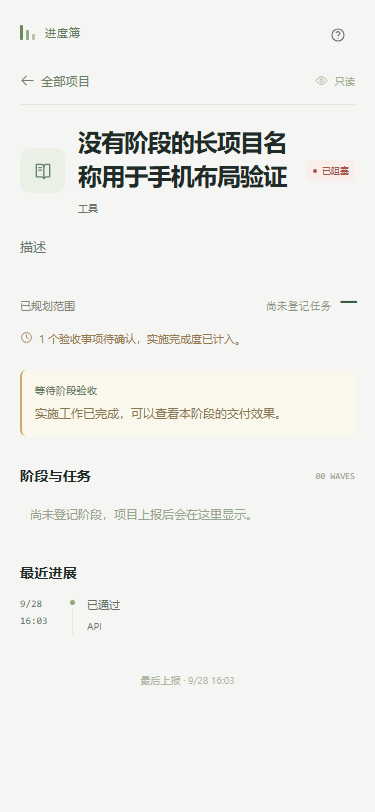
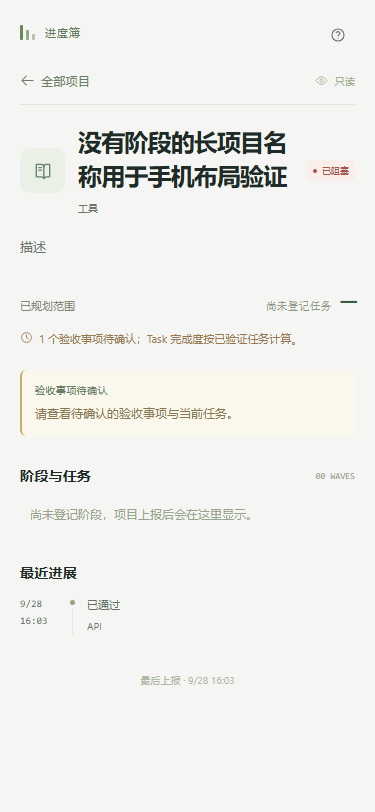
修正进度边界、验收文案与读取日期格式

Changed region(s): [[0.088, 0.4618, 0.7333, 0.5234], [0.3813, 0.4002, 0.792, 0.431]]

diff --git a/demo/mobile.html b/demo/mobile.html
@@ -474,7 +474,7 @@ body[data-connection=&quot;offline&quot;] .snapshot-dot, body[data-connection=&q
     return {
       done: completed.length,
       total: tasks.length,
-      percent: tasks.length ? Math.round(completed.length / tasks.length * 100) : null,
+      percent: tasks.length ? Math.floor((2 * completed.length * 100 + tasks.length) / (2 * tasks.length)) : null,
       unplannedWaves: waves.filter(wave => wave.defined === false).length,
       pendingAcceptance: (project.acceptance === 'pending' ? 1 : 0)
         + waves.filter(wave => wave.acceptance === 'pending').length
@@ -730,7 +730,7 @@ body[data-connection=&quot;offline&quot;] .snapshot-dot, body[data-connection=&q
     const current = project.currentWave === wave.id;
     const complete = summary.total > 0 &amp;&amp; summary.done === summary.total;
     const expanded = state.openWaves.get(project.id)?.has(wave.id);
-    const caption = wave.acceptance === 'pending' ? '实施完成 · 待验收' : current ? '当前阶段' : wave.defined === false ? '后续计划' : complete ? '已完成' : '尚未开始';
+    const caption = wave.acceptance === 'pending' ? complete ? '实施完成 · 待验收' : '验收待确认' : current ? '当前阶段' : wave.defined === false ? '后续计划' : complete ? '已完成' : '尚未开始';
     return `<details class=&quot;wave ${current ? 'current' : ''}&quot; data-wave=&quot;${esc(wave.id)}&quot; data-owner=&quot;${esc(project.id)}&quot; ${expanded ? 'open' : ''}>
       <summary aria-label=&quot;Wave ${index + 1} ${esc(wave.name)} ${summary.total ? `${summary.done}/${summary.total}` : '待细化'}&quot;><span class=&quot;wave-number ${current ? 'current' : complete ? 'complete' : ''} ${wave.defined === false ? 'undefined' : ''}&quot;>${complete &amp;&amp; !current ? icon('check') : String(index + 1).padStart(2, '0')}</span><span class=&quot;wave-title&quot;><strong>${esc(wave.name)}</strong><small>${caption}</small></span><span class=&quot;wave-count ${summary.total ? '' : 'text'}&quot;>${summary.total ? `${summary.done} / ${summary.total}` : '待细化'}</span><span class=&quot;wave-chevron&quot;>${icon('chevronRight')}</span></summary>
       <div class=&quot;wave-body&quot;>${wave.tasks.length ? wave.tasks.map(task => `<a class=&quot;task-row&quot; data-task=&quot;${esc(task.id)}&quot; data-status=&quot;${esc(task.status)}&quot; href=&quot;${taskLink(project, task)}&quot; aria-label=&quot;查看任务：${esc(task.title)}，${esc(statusLabels[task.status] || task.status)}&quot;>${symbol(task.status)}<span class=&quot;task-name&quot;>${esc(task.title)}${task.status === 'active' ? '<small class=&quot;task-hint&quot;>正在推进</small>' : task.status === 'waiting' ? '<small class=&quot;task-hint&quot;>等待确认</small>' : ''}</span><span class=&quot;task-code&quot;>${esc(task.code)}</span>${icon('chevronRight', 'task-chevron')}</a>`).join('') : '<div class=&quot;wave-empty&quot;>这个阶段还没有拆分 Task，暂不计入已规划范围。</div>'}</div>
@@ -740,15 +740,16 @@ body[data-connection=&quot;offline&quot;] .snapshot-dot, body[data-connection=&q
   function projectMarkup(project) {
     const summary = summarize(project);
     const ongoing = project.waves.flatMap(w => w.tasks).find(t => ['active', 'waiting', 'blocked'].includes(t.status));
+    const completeScope = summary.total > 0 &amp;&amp; summary.done === summary.total &amp;&amp; summary.unplannedWaves === 0;
     const focus = ongoing ? `<a class=&quot;focus-note ${esc(project.status)}&quot; href=&quot;${taskLink(project, ongoing)}&quot;><span class=&quot;focus-label&quot;>${project.status === 'blocked' ? '需要你确认' : '当前在做'}${icon('arrowUpRight')}</span><strong>${esc(project.blocker || ongoing.title)}</strong></a>`
       : project.status === 'blocked' &amp;&amp; project.blocker ? `<div class=&quot;focus-note blocked&quot;><span class=&quot;focus-label&quot;>当前阻塞</span><strong>${esc(project.blocker)}</strong></div>`
-      : summary.pendingAcceptance ? '<div class=&quot;focus-note review&quot;><span class=&quot;focus-label&quot;>等待阶段验收</span><strong>实施工作已完成，可以查看本阶段的交付效果。</strong></div>' : '';
+      : summary.pendingAcceptance ? `<div class=&quot;focus-note review&quot;><span class=&quot;focus-label&quot;>验收事项待确认</span><strong>${completeScope ? '实施工作已完成，可以查看本阶段的交付效果。' : '请查看待确认的验收事项与当前任务。'}</strong></div>` : '';
     return `<div class=&quot;detail-nav&quot;><span class=&quot;desktop-detail-label&quot;>项目详情</span><a class=&quot;back-link mobile-back&quot; href=&quot;#&quot;>${icon('arrowLeft')}全部项目</a><span class=&quot;detail-nav-end&quot;>${icon('eye')}只读</span></div>
       <div class=&quot;detail-content&quot;><div class=&quot;detail-project-heading&quot;><span class=&quot;project-icon ${esc(project.color)}&quot;>${icon(project.glyph)}</span><div class=&quot;detail-title-wrap&quot;><h2 tabindex=&quot;-1&quot;>${esc(project.name)}</h2><span class=&quot;category-label&quot;>${esc(project.category)}</span></div>${statusTag(project.status)}</div>
       <p class=&quot;detail-description&quot;>${esc(project.description)}</p>
       <div class=&quot;metric-top&quot;><span>已规划范围</span><div class=&quot;metric-ratio&quot;><span>${summary.total ? `${summary.done} / ${summary.total} Task` : '尚未登记任务'}</span><strong>${summary.percent === null ? '—' : `${summary.percent}<small>%</small>`}</strong></div></div>
       ${progress(summary, project.name, 'detail-progress', project.status)}
-      <div class=&quot;scope-note ${summary.pendingAcceptance ? 'pending' : ''}&quot;>${icon(summary.pendingAcceptance ? 'clock' : 'layers')}<span>${summary.pendingAcceptance ? `${summary.pendingAcceptance} 个验收事项待确认，实施完成度已计入。` : summary.unplannedWaves ? `另有 ${summary.unplannedWaves} 个 Wave 待细化，以上仅统计已规划 Task。` : project.status === 'complete' ? '全部任务已完成，交付检查已通过。' : '按 Task 等权计量，子项不增加任务总数。'}</span></div>
+      <div class=&quot;scope-note ${summary.pendingAcceptance ? 'pending' : ''}&quot;>${icon(summary.pendingAcceptance ? 'clock' : 'layers')}<span>${summary.pendingAcceptance ? `${summary.pendingAcceptance} 个验收事项待确认；Task 完成度按已验证任务计算。${summary.unplannedWaves ? `另有 ${summary.unplannedWaves} 个 Wave 待细化。` : ''}` : summary.unplannedWaves ? `另有 ${summary.unplannedWaves} 个 Wave 待细化，以上仅统计已规划 Task。` : project.status === 'complete' ? '全部任务已完成，交付检查已通过。' : '按 Task 等权计量，子项不增加任务总数。'}</span></div>
       ${focus}
       <div class=&quot;section-heading&quot;><h3>阶段与任务</h3><span>${String(project.waves.length).padStart(2, '0')} WAVES</span></div>
       <div class=&quot;wave-list&quot;>${project.waves.length ? project.waves.map((wave, index) => waveMarkup(project, wave, index)).join('') : '<div class=&quot;wave-empty&quot;>尚未登记阶段，项目上报后会在这里显示。</div>'}</div>

diff --git a/demo/index.html b/demo/index.html
@@ -472,7 +472,7 @@ body[data-connection="offline"] .snapshot-dot, body[data-connection="offline"] .
     return {
       done: completed.length,
       total: tasks.length,
-      percent: tasks.length ? Math.round(completed.length / tasks.length * 100) : null,
+      percent: tasks.length ? Math.floor((2 * completed.length * 100 + tasks.length) / (2 * tasks.length)) : null,
       unplannedWaves: waves.filter(wave => wave.defined === false).length,
       pendingAcceptance: (project.acceptance === 'pending' ? 1 : 0)
         + waves.filter(wave => wave.acceptance === 'pending').length
@@ -728,7 +728,7 @@ body[data-connection="offline"] .snapshot-dot, body[data-connection="offline"] .
     const current = project.currentWave === wave.id;
     const complete = summary.total > 0 && summary.done === summary.total;
     const expanded = state.openWaves.get(project.id)?.has(wave.id);
-    const caption = wave.acceptance === 'pending' ? '实施完成 · 待验收' : current ? '当前阶段' : wave.defined === false ? '后续计划' : complete ? '已完成' : '尚未开始';
+    const caption = wave.acceptance === 'pending' ? complete ? '实施完成 · 待验收' : '验收待确认' : current ? '当前阶段' : wave.defined === false ? '后续计划' : complete ? '已完成' : '尚未开始';
     return `<details class="wave ${current ? 'current' : ''}" data-wave="${esc(wave.id)}" data-owner="${esc(project.id)}" ${expanded ? 'open' : ''}>
       <summary aria-label="Wave ${index + 1} ${esc(wave.name)} ${summary.total ? `${summary.done}/${summary.total}` : '待细化'}"><span class="wave-number ${current ? 'current' : complete ? 'complete' : ''} ${wave.defined === false ? 'undefined' : ''}">${complete && !current ? icon('check') : String(index + 1).padStart(2, '0')}</span><span class="wave-title"><strong>${esc(wave.name)}</strong><small>${caption}</small></span><span class="wave-count ${summary.total ? '' : 'text'}">${summary.total ? `${summary.done} / ${summary.total}` : '待细化'}</span><span class="wave-chevron">${icon('chevronRight')}</span></summary>
       <div class="wave-body">${wave.tasks.length ? wave.tasks.map(task => `<a class="task-row" data-task="${esc(task.id)}" data-status="${esc(task.status)}" href="${taskLink(project, task)}" aria-label="查看任务：${esc(task.title)}，${esc(statusLabels[task.status] || task.status)}">${symbol(task.status)}<span class="task-name">${esc(task.title)}${task.status === 'active' ? '<small class="task-hint">正在推进</small>' : task.status === 'waiting' ? '<small class="task-hint">等待确认</small>' : ''}</span><span class="task-code">${esc(task.code)}</span>${icon('chevronRight', 'task-chevron')}</a>`).join('') : '<div class="wave-empty">这个阶段还没有拆分 Task，暂不计入已规划范围。</div>'}</div>
@@ -738,15 +738,16 @@ body[data-connection="offline"] .snapshot-dot, body[data-connection="offline"] .
   function projectMarkup(project) {
     const summary = summarize(project);
     const ongoing = project.waves.flatMap(w => w.tasks).find(t => ['active', 'waiting', 'blocked'].includes(t.status));
+    const completeScope = summary.total > 0 && summary.done === summary.total && summary.unplannedWaves === 0;
     const focus = ongoing ? `<a class="focus-note ${esc(project.status)}" href="${taskLink(project, ongoing)}"><span class="focus-label">${project.status === 'blocked' ? '需要你确认' : '当前在做'}${icon('arrowUpRight')}</span><strong>${esc(project.blocker || ongoing.title)}</strong></a>`
       : project.status === 'blocked' && project.blocker ? `<div class="focus-note blocked"><span class="focus-label">当前阻塞</span><strong>${esc(project.blocker)}</strong></div>`
-      : summary.pendingAcceptance ? '<div class="focus-note review"><span class="focus-label">等待阶段验收</span><strong>实施工作已完成，可以查看本阶段的交付效果。</strong></div>' : '';
+      : summary.pendingAcceptance ? `<div class="focus-note review"><span class="focus-label">验收事项待确认</span><strong>${completeScope ? '实施工作已完成，可以查看本阶段的交付效果。' : '请查看待确认的验收事项与当前任务。'}</strong></div>` : '';
     return `<div class="detail-nav"><span class="desktop-detail-label">项目详情</span><a class="back-link mobile-back" href="#">${icon('arrowLeft')}全部项目</a><span class="detail-nav-end">${icon('eye')}只读</span></div>
       <div class="detail-content"><div class="detail-project-heading"><span class="project-icon ${esc(project.color)}">${icon(project.glyph)}</span><div class="detail-title-wrap"><h2 tabindex="-1">${esc(project.name)}</h2><span class="category-label">${esc(project.category)}</span></div>${statusTag(project.status)}</div>
       <p class="detail-description">${esc(project.description)}</p>
       <div class="metric-top"><span>已规划范围</span><div class="metric-ratio"><span>${summary.total ? `${summary.done} / ${summary.total} Task` : '尚未登记任务'}</span><strong>${summary.percent === null ? '—' : `${summary.percent}<small>%</small>`}</strong></div></div>
       ${progress(summary, project.name, 'detail-progress', project.status)}
-      <div class="scope-note ${summary.pendingAcceptance ? 'pending' : ''}">${icon(summary.pendingAcceptance ? 'clock' : 'layers')}<span>${summary.pendingAcceptance ? `${summary.pendingAcceptance} 个验收事项待确认，实施完成度已计入。` : summary.unplannedWaves ? `另有 ${summary.unplannedWaves} 个 Wave 待细化，以上仅统计已规划 Task。` : project.status === 'complete' ? '全部任务已完成，交付检查已通过。' : '按 Task 等权计量，子项不增加任务总数。'}</span></div>
+      <div class="scope-note ${summary.pendingAcceptance ? 'pending' : ''}">${icon(summary.pendingAcceptance ? 'clock' : 'layers')}<span>${summary.pendingAcceptance ? `${summary.pendingAcceptance} 个验收事项待确认；Task 完成度按已验证任务计算。${summary.unplannedWaves ? `另有 ${summary.unplannedWaves} 个 Wave 待细化。` : ''}` : summary.unplannedWaves ? `另有 ${summary.unplannedWaves} 个 Wave 待细化，以上仅统计已规划 Task。` : project.status === 'complete' ? '全部任务已完成，交付检查已通过。' : '按 Task 等权计量，子项不增加任务总数。'}</span></div>
       ${focus}
       <div class="section-heading"><h3>阶段与任务</h3><span>${String(project.waves.length).padStart(2, '0')} WAVES</span></div>
       <div class="wave-list">${project.waves.length ? project.waves.map((wave, index) => waveMarkup(project, wave, index)).join('') : '<div class="wave-empty">尚未登记阶段，项目上报后会在这里显示。</div>'}</div>

diff --git a/web/index.html b/web/index.html
@@ -468,7 +468,7 @@ body[data-connection="offline"] .snapshot-dot, body[data-connection="offline"] .
     return {
       done: completed.length,
       total: tasks.length,
-      percent: tasks.length ? Math.round(completed.length / tasks.length * 100) : null,
+      percent: tasks.length ? Math.floor((2 * completed.length * 100 + tasks.length) / (2 * tasks.length)) : null,
       unplannedWaves: waves.filter(wave => wave.defined === false).length,
       pendingAcceptance: (project.acceptance === 'pending' ? 1 : 0)
         + waves.filter(wave => wave.acceptance === 'pending').length
@@ -661,7 +661,7 @@ body[data-connection="offline"] .snapshot-dot, body[data-connection="offline"] .
     const current = project.currentWave === wave.id;
     const complete = summary.total > 0 && summary.done === summary.total;
     const expanded = state.openWaves.get(project.id)?.has(wave.id);
-    const caption = wave.acceptance === 'pending' ? '实施完成 · 待验收' : current ? '当前阶段' : wave.defined === false ? '后续计划' : complete ? '已完成' : '尚未开始';
+    const caption = wave.acceptance === 'pending' ? complete ? '实施完成 · 待验收' : '验收待确认' : current ? '当前阶段' : wave.defined === false ? '后续计划' : complete ? '已完成' : '尚未开始';
     return `<details class="wave ${current ? 'current' : ''}" data-wave="${esc(wave.id)}" data-owner="${esc(project.id)}" ${expanded ? 'open' : ''}>
       <summary aria-label="Wave ${index + 1} ${esc(wave.name)} ${summary.total ? `${summary.done}/${summary.total}` : '待细化'}"><span class="wave-number ${current ? 'current' : complete ? 'complete' : ''} ${wave.defined === false ? 'undefined' : ''}">${complete && !current ? icon('check') : String(index + 1).padStart(2, '0')}</span><span class="wave-title"><strong>${esc(wave.name)}</strong><small>${caption}</small></span><span class="wave-count ${summary.total ? '' : 'text'}">${summary.total ? `${summary.done} / ${summary.total}` : '待细化'}</span><span class="wave-chevron">${icon('chevronRight')}</span></summary>
       <div class="wave-body">${wave.tasks.length ? wave.tasks.map(task => `<a class="task-row" data-task="${esc(task.id)}" data-status="${esc(task.status)}" href="${taskLink(project, task)}" aria-label="查看任务：${esc(task.title)}，${esc(statusLabels[task.status] || task.status)}">${symbol(task.status)}<span class="task-name">${esc(task.title)}${task.status === 'active' ? '<small class="task-hint">正在推进</small>' : task.status === 'waiting' ? '<small class="task-hint">等待确认</small>' : ''}</span><span class="task-code">${esc(task.code)}</span>${icon('chevronRight', 'task-chevron')}</a>`).join('') : '<div class="wave-empty">这个阶段还没有拆分 Task，暂不计入已规划范围。</div>'}</div>
@@ -671,15 +671,16 @@ body[data-connection="offline"] .snapshot-dot, body[data-connection="offline"] .
   function projectMarkup(project) {
     const summary = summarize(project);
     const ongoing = project.waves.flatMap(w => w.tasks).find(t => ['active', 'waiting', 'blocked'].includes(t.status));
+    const completeScope = summary.total > 0 && summary.done === summary.total && summary.unplannedWaves === 0;
     const focus = ongoing ? `<a class="focus-note ${esc(project.status)}" href="${taskLink(project, ongoing)}"><span class="focus-label">${project.status === 'blocked' ? '需要你确认' : '当前在做'}${icon('arrowUpRight')}</span><strong>${esc(project.blocker || ongoing.title)}</strong></a>`
       : project.status === 'blocked' && project.blocker ? `<div class="focus-note blocked"><span class="focus-label">当前阻塞</span><strong>${esc(project.blocker)}</strong></div>`
-      : summary.pendingAcceptance ? '<div class="focus-note review"><span class="focus-label">等待阶段验收</span><strong>实施工作已完成，可以查看本阶段的交付效果。</strong></div>' : '';
+      : summary.pendingAcceptance ? `<div class="focus-note review"><span class="focus-label">验收事项待确认</span><strong>${completeScope ? '实施工作已完成，可以查看本阶段的交付效果。' : '请查看待确认的验收事项与当前任务。'}</strong></div>` : '';
     return `<div class="detail-nav"><span class="desktop-detail-label">项目详情</span><a class="back-link mobile-back" href="#">${icon('arrowLeft')}全部项目</a><span class="detail-nav-end">${icon('eye')}只读</span></div>
       <div class="detail-content"><div class="detail-project-heading"><span class="project-icon ${esc(project.color)}">${icon(project.glyph)}</span><div class="detail-title-wrap"><h2 tabindex="-1">${esc(project.name)}</h2><span class="category-label">${esc(project.category)}</span></div>${statusTag(project.status)}</div>
       <p class="detail-description">${esc(project.description)}</p>
       <div class="metric-top"><span>已规划范围</span><div class="metric-ratio"><span>${summary.total ? `${summary.done} / ${summary.total} Task` : '尚未登记任务'}</span><strong>${summary.percent === null ? '—' : `${summary.percent}<small>%</small>`}</strong></div></div>
       ${progress(summary, project.name, 'detail-progress', project.status)}
-      <div class="scope-note ${summary.pendingAcceptance ? 'pending' : ''}">${icon(summary.pendingAcceptance ? 'clock' : 'layers')}<span>${summary.pendingAcceptance ? `${summary.pendingAcceptance} 个验收事项待确认，实施完成度已计入。` : summary.unplannedWaves ? `另有 ${summary.unplannedWaves} 个 Wave 待细化，以上仅统计已规划 Task。` : project.status === 'complete' ? '全部任务已完成，交付检查已通过。' : '按 Task 等权计量，子项不增加任务总数。'}</span></div>
+      <div class="scope-note ${summary.pendingAcceptance ? 'pending' : ''}">${icon(summary.pendingAcceptance ? 'clock' : 'layers')}<span>${summary.pendingAcceptance ? `${summary.pendingAcceptance} 个验收事项待确认；Task 完成度按已验证任务计算。${summary.unplannedWaves ? `另有 ${summary.unplannedWaves} 个 Wave 待细化。` : ''}` : summary.unplannedWaves ? `另有 ${summary.unplannedWaves} 个 Wave 待细化，以上仅统计已规划 Task。` : project.status === 'complete' ? '全部任务已完成，交付检查已通过。' : '按 Task 等权计量，子项不增加任务总数。'}</span></div>
       ${focus}
       <div class="section-heading"><h3>阶段与任务</h3><span>${String(project.waves.length).padStart(2, '0')} WAVES</span></div>
       <div class="wave-list">${project.waves.length ? project.waves.map((wave, index) => waveMarkup(project, wave, index)).join('') : '<div class="wave-empty">尚未登记阶段，项目上报后会在这里显示。</div>'}</div>

diff --git a/demo/src/app.js b/demo/src/app.js
@@ -95,7 +95,7 @@
     const current = project.currentWave === wave.id;
     const complete = summary.total > 0 && summary.done === summary.total;
     const expanded = state.openWaves.get(project.id)?.has(wave.id);
-    const caption = wave.acceptance === 'pending' ? '实施完成 · 待验收' : current ? '当前阶段' : wave.defined === false ? '后续计划' : complete ? '已完成' : '尚未开始';
+    const caption = wave.acceptance === 'pending' ? complete ? '实施完成 · 待验收' : '验收待确认' : current ? '当前阶段' : wave.defined === false ? '后续计划' : complete ? '已完成' : '尚未开始';
     return `<details class="wave ${current ? 'current' : ''}" data-wave="${esc(wave.id)}" data-owner="${esc(project.id)}" ${expanded ? 'open' : ''}>
       <summary aria-label="Wave ${index + 1} ${esc(wave.name)} ${summary.total ? `${summary.done}/${summary.total}` : '待细化'}"><span class="wave-number ${current ? 'current' : complete ? 'complete' : ''} ${wave.defined === false ? 'undefined' : ''}">${complete && !current ? icon('check') : String(index + 1).padStart(2, '0')}</span><span class="wave-title"><strong>${esc(wave.name)}</strong><small>${caption}</small></span><span class="wave-count ${summary.total ? '' : 'text'}">${summary.total ? `${summary.done} / ${summary.total}` : '待细化'}</span><span class="wave-chevron">${icon('chevronRight')}</span></summary>
       <div class="wave-body">${wave.tasks.length ? wave.tasks.map(task => `<a class="task-row" data-task="${esc(task.id)}" data-status="${esc(task.status)}" href="${taskLink(project, task)}" aria-label="查看任务：${esc(task.title)}，${esc(statusLabels[task.status] || task.status)}">${symbol(task.status)}<span class="task-name">${esc(task.title)}${task.status === 'active' ? '<small class="task-hint">正在推进</small>' : task.status === 'waiting' ? '<small class="task-hint">等待确认</small>' : ''}</span><span class="task-code">${esc(task.code)}</span>${icon('chevronRight', 'task-chevron')}</a>`).join('') : '<div class="wave-empty">这个阶段还没有拆分 Task，暂不计入已规划范围。</div>'}</div>
@@ -105,15 +105,16 @@
   function projectMarkup(project) {
     const summary = summarize(project);
     const ongoing = project.waves.flatMap(w => w.tasks).find(t => ['active', 'waiting', 'blocked'].includes(t.status));
+    const completeScope = summary.total > 0 && summary.done === summary.total && summary.unplannedWaves === 0;
     const focus = ongoing ? `<a class="focus-note ${esc(project.status)}" href="${taskLink(project, ongoing)}"><span class="focus-label">${project.status === 'blocked' ? '需要你确认' : '当前在做'}${icon('arrowUpRight')}</span><strong>${esc(project.blocker || ongoing.title)}</strong></a>`
       : project.status === 'blocked' && project.blocker ? `<div class="focus-note blocked"><span class="focus-label">当前阻塞</span><strong>${esc(project.blocker)}</strong></div>`
-      : summary.pendingAcceptance ? '<div class="focus-note review"><span class="focus-label">等待阶段验收</span><strong>实施工作已完成，可以查看本阶段的交付效果。</strong></div>' : '';
+      : summary.pendingAcceptance ? `<div class="focus-note review"><span class="focus-label">验收事项待确认</span><strong>${completeScope ? '实施工作已完成，可以查看本阶段的交付效果。' : '请查看待确认的验收事项与当前任务。'}</strong></div>` : '';
     return `<div class="detail-nav"><span class="desktop-detail-label">项目详情</span><a class="back-link mobile-back" href="#">${icon('arrowLeft')}全部项目</a><span class="detail-nav-end">${icon('eye')}只读</span></div>
       <div class="detail-content"><div class="detail-project-heading"><span class="project-icon ${esc(project.color)}">${icon(project.glyph)}</span><div class="detail-title-wrap"><h2 tabindex="-1">${esc(project.name)}</h2><span class="category-label">${esc(project.category)}</span></div>${statusTag(project.status)}</div>
       <p class="detail-description">${esc(project.description)}</p>
       <div class="metric-top"><span>已规划范围</span><div class="metric-ratio"><span>${summary.total ? `${summary.done} / ${summary.total} Task` : '尚未登记任务'}</span><strong>${summary.percent === null ? '—' : `${summary.percent}<small>%</small>`}</strong></div></div>
       ${progress(summary, project.name, 'detail-progress', project.status)}
-      <div class="scope-note ${summary.pendingAcceptance ? 'pending' : ''}">${icon(summary.pendingAcceptance ? 'clock' : 'layers')}<span>${summary.pendingAcceptance ? `${summary.pendingAcceptance} 个验收事项待确认，实施完成度已计入。` : summary.unplannedWaves ? `另有 ${summary.unplannedWaves} 个 Wave 待细化，以上仅统计已规划 Task。` : project.status === 'complete' ? '全部任务已完成，交付检查已通过。' : '按 Task 等权计量，子项不增加任务总数。'}</span></div>
+      <div class="scope-note ${summary.pendingAcceptance ? 'pending' : ''}">${icon(summary.pendingAcceptance ? 'clock' : 'layers')}<span>${summary.pendingAcceptance ? `${summary.pendingAcceptance} 个验收事项待确认；Task 完成度按已验证任务计算。${summary.unplannedWaves ? `另有 ${summary.unplannedWaves} 个 Wave 待细化。` : ''}` : summary.unplannedWaves ? `另有 ${summary.unplannedWaves} 个 Wave 待细化，以上仅统计已规划 Task。` : project.status === 'complete' ? '全部任务已完成，交付检查已通过。' : '按 Task 等权计量，子项不增加任务总数。'}</span></div>
       ${focus}
       <div class="section-heading"><h3>阶段与任务</h3><span>${String(project.waves.length).padStart(2, '0')} WAVES</span></div>
       <div class="wave-list">${project.waves.length ? project.waves.map((wave, index) => waveMarkup(project, wave, index)).join('') : '<div class="wave-empty">尚未登记阶段，项目上报后会在这里显示。</div>'}</div>

diff --git a/demo/src/model.js b/demo/src/model.js
@@ -7,7 +7,7 @@
     return {
       done: completed.length,
       total: tasks.length,
-      percent: tasks.length ? Math.round(completed.length / tasks.length * 100) : null,
+      percent: tasks.length ? Math.floor((2 * completed.length * 100 + tasks.length) / (2 * tasks.length)) : null,
       unplannedWaves: waves.filter(wave => wave.defined === false).length,
       pendingAcceptance: (project.acceptance === 'pending' ? 1 : 0)
         + waves.filter(wave => wave.acceptance === 'pending').length

diff --git a/dashboard/store.py b/dashboard/store.py
@@ -96,6 +96,10 @@ class AuthenticationChanged(Exception):
     pass
 
 
+def browser_date(value: str) -> str:
+    return datetime.fromisoformat(value).isoformat().replace("+00:00", "Z")
+
+
 def save_snapshot(db_path: str, project_id: str, token: str, key: str, snapshot: Snapshot) -> dict:
     normalized = snapshot.model_dump(mode="json", exclude_none=True)
     canonical = json.dumps(normalized, sort_keys=True, ensure_ascii=False, separators=(",", ":"))
@@ -141,8 +145,15 @@ def project_views(db_path: str, project_id: str | None = None) -> list[dict]:
     views = []
     for row in rows:
         project = Project.model_validate(json.loads(row["snapshot_json"]))
-        views.append({**project.model_dump(mode="json", exclude_none=True),
+        visible = project.model_dump(mode="json", exclude_none=True)
+        for wave in visible["waves"]:
+            for task in wave["tasks"]:
+                if "updatedAt" in task:
+                    task["updatedAt"] = browser_date(task["updatedAt"])
+        for update in visible["updates"]:
+            update["at"] = browser_date(update["at"])
+        views.append({**visible,
                       "id": row["project_id"], "revision": row["revision"],
-                      "receivedAt": row["received_at"], "observedAt": row["observed_at"],
+                      "receivedAt": row["received_at"], "observedAt": browser_date(row["observed_at"]),
                       "progress": summarize(project)})
     return views

diff --git a/tests/test_backend.py b/tests/test_backend.py
@@ -107,6 +107,22 @@ class BackendContractTests(unittest.TestCase):
         finally:
             db.close()
 
+    def test_compact_iso_dates_are_browser_readable_without_changing_replay_hash(self):
+        payload = snapshot()
+        payload["observed_at"] = "20260928T080000Z"
+        payload["project"]["waves"][0]["tasks"][0]["updatedAt"] = "20260928T080100Z"
+        payload["project"]["updates"][0]["at"] = "20260928T080200Z"
+        first = self.send(payload, key="compact-dates")
+        self.assertEqual(first.status_code, 200, first.text)
+        view = self.view().json()["projects"][0]
+        self.assertEqual(view["observedAt"], "2026-09-28T08:00:00Z")
+        self.assertEqual(view["waves"][0]["tasks"][0]["updatedAt"], "2026-09-28T08:01:00Z")
+        self.assertEqual(view["updates"][0]["at"], "2026-09-28T08:02:00Z")
+        replay = self.send(payload, key="compact-dates")
+        self.assertEqual(replay.status_code, 200, replay.text)
+        self.assertEqual(replay.json()["revision"], 1)
+        self.assertTrue(replay.json()["replayed"])
+
     def test_cas_two_writers_and_replay_after_later_revision(self):
         def send_key(key):
             return self.send(key=key)

diff --git a/docs/api.md b/docs/api.md
@@ -40,7 +40,7 @@ python -m dashboard.server --role write --host 127.0.0.1 --port 8811
 
 Wave ID 在项目内唯一，Task ID 在整个项目内唯一；`currentWave` 为 `null` 或现有 Wave ID。`defined=false` 的 Wave 没有 Task。`done` Task 必须 `verified=true` 且至少有一条 evidence。项目标为 `complete` 时，必须有非零个有效 Task 且全部完成，没有待细化 Wave 或待处理的验收（`pending`/`rejected`）。`cancelled` Task 退出分母；子项不计数。`progress.done` 为已验证的 `done` Task 数，`progress.total` 为未取消 Task 数，`percent` 对 `done/total*100` 四舍五入，零分母时为 `null`。`unplannedWaves` 单独计算，`pendingAcceptance` 统计项目、Wave 和已完成 Task 的待验收项。实施进度、验收与上报新鲜度是独立信息。
 
-成功响应是 `{"project_id":"my-project","revision":1,"received_at":"...","replayed":false}`。`GET /api/v1/projects/{id}/revision` 使用同一项目 token，登记后未上报时返回 revision 0。读取端的 ProjectView 使用原始 `project` 业务字段及 `id`、`revision`、`receivedAt`、`observedAt`、`progress`；`receivedAt` 是服务接收时间，`observedAt` 是上报方观察时间。
+成功响应是 `{"project_id":"my-project","revision":1,"received_at":"...","replayed":false}`。`GET /api/v1/projects/{id}/revision` 使用同一项目 token，登记后未上报时返回 revision 0。读取端的 ProjectView 使用原始 `project` 业务字段及 `id`、`revision`、`receivedAt`、`observedAt`、`progress`；`receivedAt` 是服务接收时间，`observedAt` 是上报方观察时间。读取视图会将已验证的 `observedAt`、Task `updatedAt` 和更新记录 `at` 转为浏览器可解析的扩展 ISO 格式；存储快照与幂等请求哈希不受此显示转换影响。
 
 ## 稳定上报与冲突处理
 
